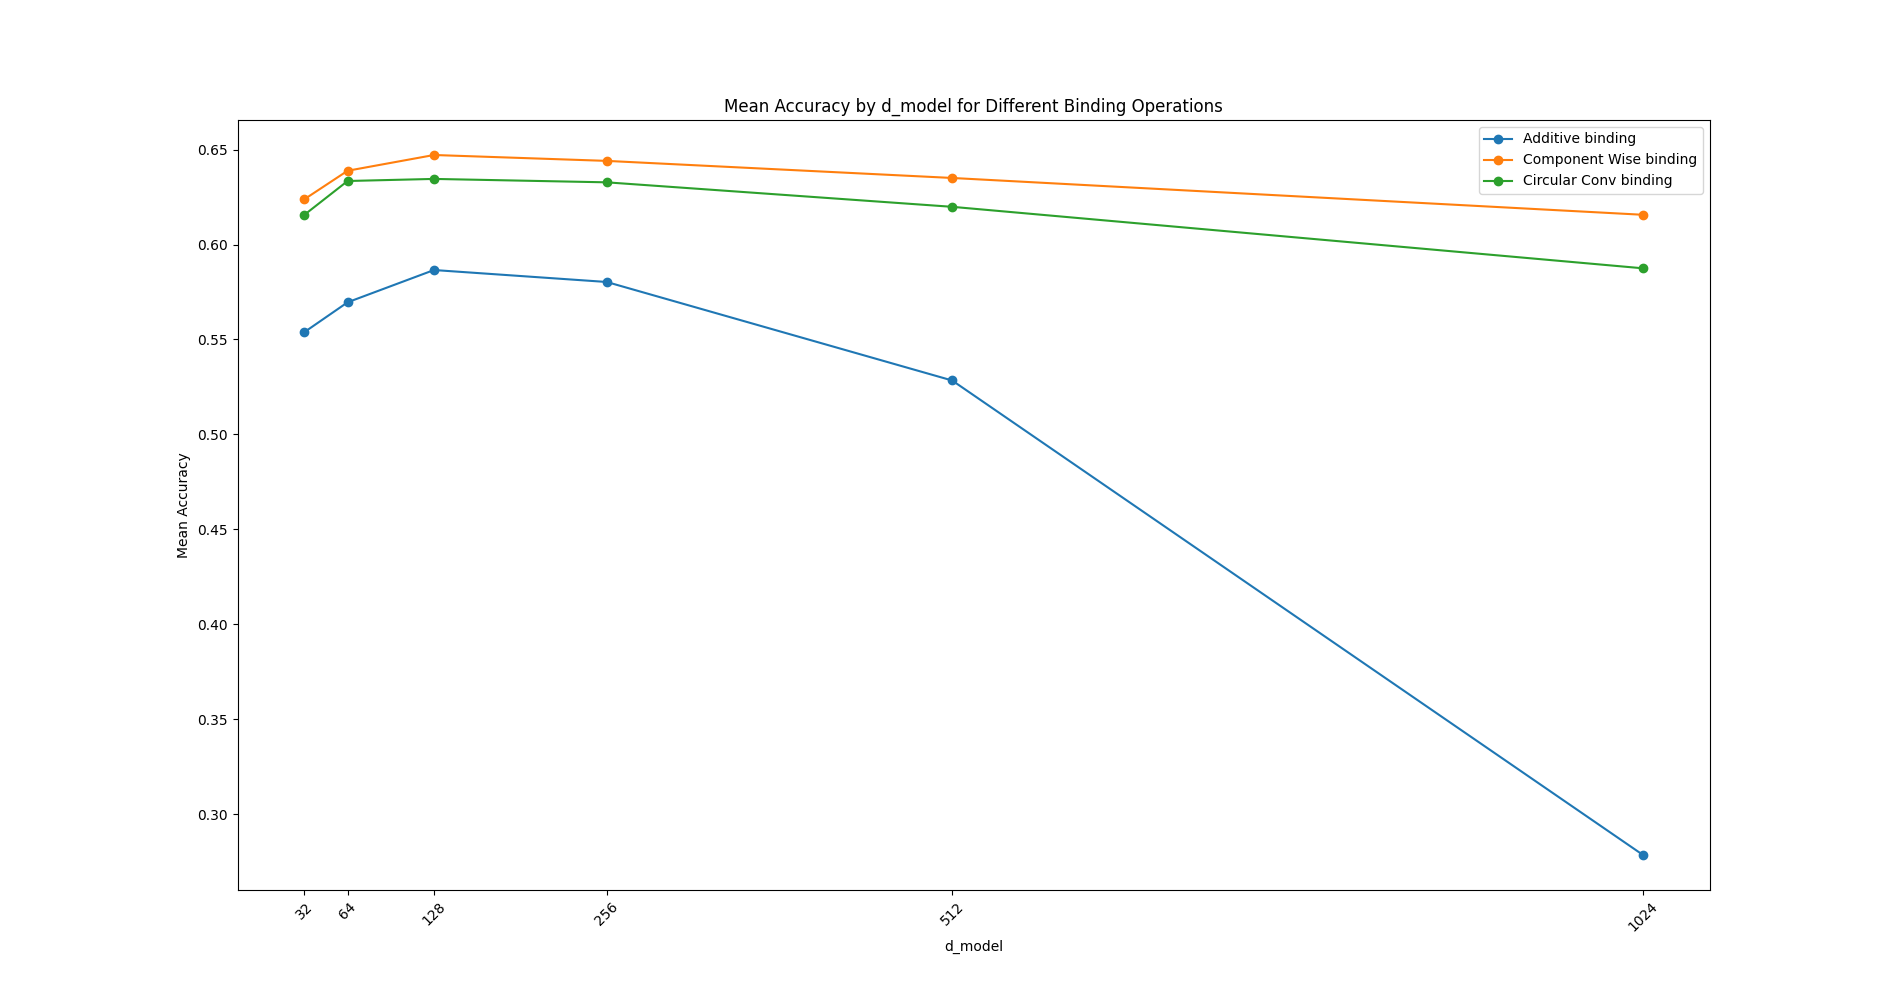
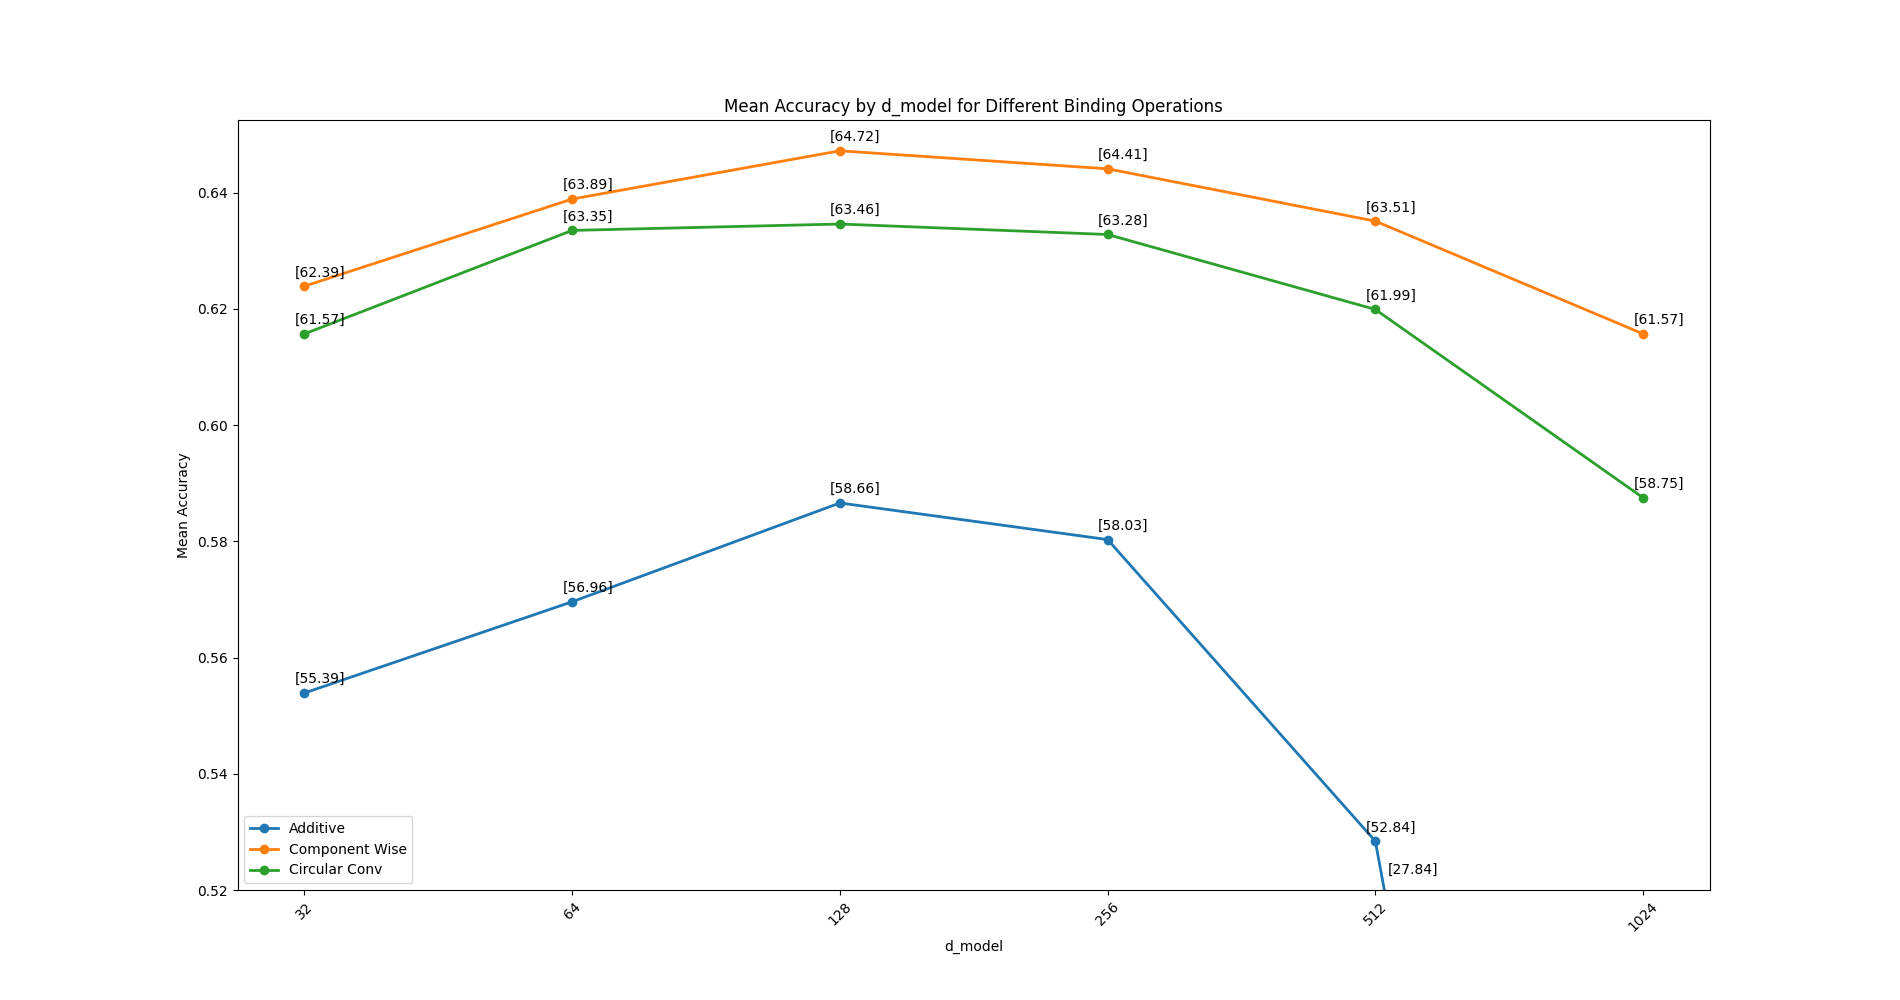
latest d_model plot

diff --git a/src/experiments/pe_visualization/d_model_experiment.py b/src/experiments/pe_visualization/d_model_experiment.py
@@ -23,20 +23,33 @@ def plot_metrics_by_binding(metrics: pandas.DataFrame, plot_path: pathlib.Path) 
 
     models = ["additive", "component_wise", "circular_conv"]
     d_models = [32, 64, 128, 256, 512, 1024]
+    x_ticks = list(range(len(d_models)))
+    lower_limit = 0.52
 
     for model in models:
         acc = [metrics[metrics["model"] == f"linear_{model}_{d_model}"]["mean_acc"].values for d_model in d_models]
 
-        ax.plot(d_models, acc, label=f"{model.replace('_', ' ').title()} binding", marker="o")
+        ax.plot(x_ticks, acc, label=model.replace("_", " ").title(), marker="o", linewidth=2)
 
-    ax.set_xticks(d_models)
+        for i, v in enumerate(acc):
+
+            if v < lower_limit:
+                # If the value is below the lower limit, set the text color to red
+                ax.annotate(
+                    str(v * 100), xy=(i - 1, 0.5225), xytext=(9, 1), textcoords="offset points", annotation_clip=False
+                )
+            else:
+                ax.annotate(str(v * 100), xy=(i, v), xytext=(-7, 7), textcoords="offset points")
+
+    ax.set_xticks(x_ticks)
     ax.set_xticklabels(d_models, rotation=45)
+    ax.set_ylim([lower_limit, 0.6525])
     ax.set_xlabel("d_model")
     ax.set_ylabel("Mean Accuracy")
     ax.set_title("Mean Accuracy by d_model for Different Binding Operations")
 
     # Add a legend
-    ax.legend()
+    ax.legend(loc="lower left")
 
     # Save the plot to the specified directory
     pyplot.savefig(plot_path)
